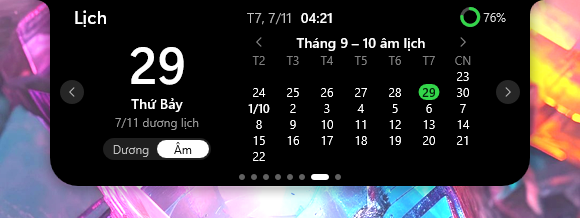
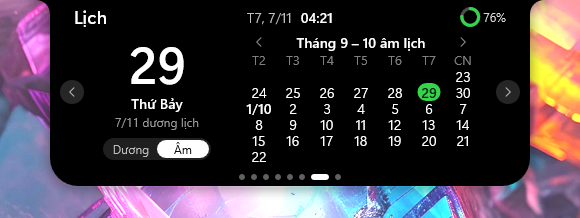
fix(calendar): larger day numbers (14 px) in the grid, weekday heads 13 px, the disc a little taller than its row

diff --git a/src/render/calendar_page.rs b/src/render/calendar_page.rs
@@ -69,7 +69,7 @@ impl Renderer {
             }
             for k in 0..7u32 {
                 let x = gx + k as f32 * CAL_COL_W * s;
-                text(cal::weekday_short(k, english), F_LABEL, rect(x, CAL_HEAD_Y * s, x + CAL_COL_W * s, (CAL_HEAD_Y + CAL_ROW_H) * s), center, grey(0.5, a))?;
+                text(cal::weekday_short(k, english), F_BODY, rect(x, CAL_HEAD_Y * s, x + CAL_COL_W * s, (CAL_HEAD_Y + CAL_ROW_H) * s), center, grey(0.5, a))?;
             }
             let (first, days) = (cal::first_column(c.year, c.month) as i32, cal::days_in_month(c.year, c.month) as i32);
             for i in 0..42usize {
@@ -87,21 +87,21 @@ impl Renderer {
                     Some(l) => l.day.to_string(),
                     None => day.to_string(),
                 };
-                let font = if l.is_some_and(|l| l.day == 1) { F_LABEL_BOLD } else { F_LABEL };
+                let font = if l.is_some_and(|l| l.day == 1) { F_CLOCK_BOLD } else { F_CLOCK };
                 let (mx, my) = ((cell.left + cell.right) / 2.0, (cell.top + cell.bottom) / 2.0);
-                let half = ((width(&label, font) / s + 8.0).max(CAL_ROW_H) / 2.0) * s;
-                let chip = rect(mx - half, my - CAL_ROW_H * s / 2.0, mx + half, my + CAL_ROW_H * s / 2.0);
+                let half = ((width(&label, font) / s + 8.0).max(CAL_CHIP_H) / 2.0) * s;
+                let chip = rect(mx - half, my - CAL_CHIP_H * s / 2.0, mx + half, my + CAL_CHIP_H * s / 2.0);
                 let today = c.today == (c.year, c.month, day);
                 if today {
-                    rt.FillRoundedRectangle(&rounded(chip, CAL_ROW_H * s / 2.0), &self.brush(color(GREEN.0, GREEN.1, GREEN.2, a))?);
+                    rt.FillRoundedRectangle(&rounded(chip, CAL_CHIP_H * s / 2.0), &self.brush(color(GREEN.0, GREEN.1, GREEN.2, a))?);
                 } else if day == sel {
                     let inner = rect(chip.left + 0.5, chip.top + 0.5, chip.right - 0.5, chip.bottom - 0.5);
-                    rt.DrawRoundedRectangle(&rounded(inner, CAL_ROW_H * s / 2.0), &self.brush(grey(0.7, a))?, 1.0 * s, None);
+                    rt.DrawRoundedRectangle(&rounded(inner, CAL_CHIP_H * s / 2.0), &self.brush(grey(0.7, a))?, 1.0 * s, None);
                 } else if hovered == Some(Button::CalCell(i)) {
-                    rt.FillRoundedRectangle(&rounded(chip, CAL_ROW_H * s / 2.0), &self.brush(grey(0.14, a))?);
+                    rt.FillRoundedRectangle(&rounded(chip, CAL_CHIP_H * s / 2.0), &self.brush(grey(0.14, a))?);
                 }
                 let ink = if today { color(0.02, 0.13, 0.04, a) } else { grey(1.0, a) };
-                text(&label, if today { F_LABEL_BOLD } else { font }, cell, center, ink)?;
+                text(&label, if today { F_CLOCK_BOLD } else { font }, cell, center, ink)?;
             }
         }
         Ok(())

diff --git a/src/render.rs b/src/render.rs
@@ -769,9 +769,8 @@ const F_TEMP: usize = 17;
 const F_SONG: usize = 18;
 /// The time left on the Focus page.
 const F_TIME: usize = 19;
-/// The Calendar page's big day, and its bold 12 px (today, the first of a lunar month).
+/// The Calendar page's big day.
 const F_DAY: usize = 20;
-const F_LABEL_BOLD: usize = 21;
 /// The Calendar page (logical px from the panel's top-left, the x from the content's left): the left column
 /// (the day, its weekday, the other date, the choice) is `CAL_LEFT_W` wide and its block centred in
 /// `CAL_BLOCK_H` from `CAL_TOP`; the grid starts at `CAL_GRID_X`, seven columns, a title row, a weekday row, six rows.
@@ -787,6 +786,8 @@ const CAL_TITLE_Y: f32 = 32.0;
 const CAL_HEAD_Y: f32 = 52.0;
 const CAL_ROW0: f32 = 68.0;
 const CAL_ROW_H: f32 = 16.0;
+/// A day's disc (today), ring (picked) or hover wash: a little taller than its row.
+const CAL_CHIP_H: f32 = 18.0;
 /// Lyrics area beside the player, logical px: its top and bottom in the panel, the space each side
 /// of the thin divider after the player's controls, its right margin and its width. The right
 /// margin equals the gap at the divider; the pages' clip gives way on that side while the lyrics
@@ -1495,7 +1496,6 @@ impl Renderer {
                 make(display, 21.0, DWRITE_FONT_WEIGHT_BOLD)?,
                 make(display, 46.0, DWRITE_FONT_WEIGHT_MEDIUM)?,
                 make(display, 52.0, DWRITE_FONT_WEIGHT_SEMI_BOLD)?,
-                make(ui, 12.0, DWRITE_FONT_WEIGHT_SEMI_BOLD)?,
             ];
             self.fonts = Some((scale, set));
         }
